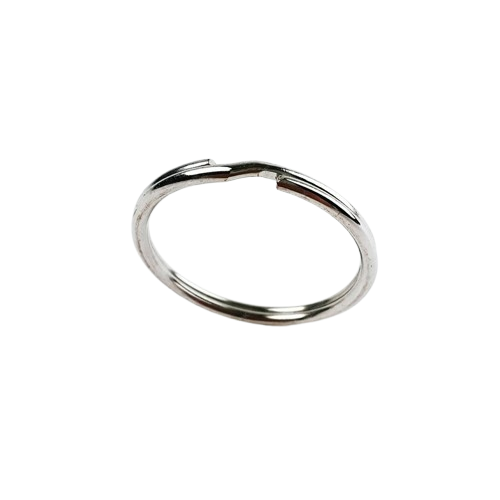
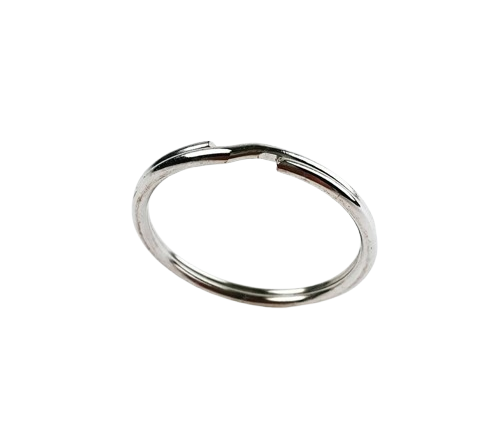
carousel images cont

Changed region(s): [[0.24, 0.2975, 0.75, 0.714]]

diff --git a/GemmaLaravel/database/seeders/ProductImageSeeder.php b/GemmaLaravel/database/seeders/ProductImageSeeder.php
@@ -16,81 +16,154 @@ class ProductImageSeeder extends Seeder
     {
         $productImages = [
             // Jednoduché
-            'Aurora Shine'    => 'prsten/jednoduche/01_zeny_zlato.png',
-            'Ruby Blossom'    => 'prsten/jednoduche/02_zeny_zlato.png',
-            'Sapphire Grace'  => 'prsten/jednoduche/03_zeny_zlato.png',
-            'Pearl Whisper'   => 'prsten/jednoduche/04_zeny_zlato.png',
-            'Golden Noble'    => 'prsten/jednoduche/101_muzi_zlato.png',
-            'Rubin Lord'      => 'prsten/jednoduche/102_muzi_zlato.png',
-            'Ocean Crown'     => 'prsten/jednoduche/103_muzi_zlato.png',
-            'Silver Titan'    => 'prsten/jednoduche/104_muzi_striebro.png',
-            'Crimson Edge'    => 'prsten/jednoduche/105_muzi_titanium.png',
-            'Midnight Star'   => 'prsten/jednoduche/106_muzi_titanium.png',
-            'Pearl Touch'     => 'prsten/jednoduche/1001_unisex_striebro.png',
-            'Ruby Zen'        => 'prsten/jednoduche/1002_unisex_striebro.png',
-            'Steel Moon'      => 'prsten/jednoduche/1003_unisex_titanium.png',
-            'Diamond Pulse'   => 'prsten/jednoduche/1004_unisex_titanium.png',
+            'Aurora Shine' => [
+                'prsten/jednoduche/01_zeny_zlato.png',
+                'prsten/jednoduche/01_zeny_zlato(2).png',
+                'prsten/jednoduche/01_zeny_zlato(3).png',
+            ],
+
+            'Ruby Blossom' => [
+                'prsten/jednoduche/02_zeny_zlato.png',
+                'prsten/jednoduche/02_zeny_zlato(2).png',
+                'prsten/jednoduche/02_zeny_zlato(3).png',
+            ],
+
+            'Sapphire Grace' => [
+                'prsten/jednoduche/03_zeny_zlato.png',
+                'prsten/jednoduche/03_zeny_zlato(2).png',
+                'prsten/jednoduche/03_zeny_zlato(3).png',
+            ],
+
+            'Pearl Whisper' => [
+                'prsten/jednoduche/04_zeny_zlato.png',
+                'prsten/jednoduche/04_zeny_zlato(2).png',
+                'prsten/jednoduche/04_zeny_zlato(3).png',
+            ],
+
+            'Golden Noble' => [
+                'prsten/jednoduche/101_muzi_zlato.png',
+                'prsten/jednoduche/101_muzi_zlato(2).png',
+                'prsten/jednoduche/101_muzi_zlato(3).png',
+            ],
+
+            'Rubin Lord' => [
+                'prsten/jednoduche/102_muzi_zlato.png',
+                'prsten/jednoduche/102_muzi_zlato(2).png',
+                'prsten/jednoduche/102_muzi_zlato(3).png',
+            ],
+
+            'Ocean Crown' => [
+                'prsten/jednoduche/103_muzi_zlato.png',
+                'prsten/jednoduche/103_muzi_zlato(2).png',
+                'prsten/jednoduche/103_muzi_zlato(3).png',
+            ],
+
+            'Silver Titan' => [
+                'prsten/jednoduche/104_muzi_striebro.png',
+                'prsten/jednoduche/104_muzi_striebro(2).png',
+                'prsten/jednoduche/104_muzi_striebro(3).png',
+            ],
+
+            'Crimson Edge' => [
+                'prsten/jednoduche/105_muzi_titanium.png',
+                'prsten/jednoduche/105_muzi_titanium(2).png',
+                'prsten/jednoduche/105_muzi_titanium(3).png',
+            ],
+
+            'Midnight Star' => [
+                'prsten/jednoduche/106_muzi_titanium.png',
+                'prsten/jednoduche/106_muzi_titanium(2).png',
+                'prsten/jednoduche/106_muzi_titanium(3).png',
+            ],
+
+            'Pearl Touch' => [
+                'prsten/jednoduche/1001_unisex_striebro.png',
+                'prsten/jednoduche/1001_unisex_striebro(2).png',
+                'prsten/jednoduche/1001_unisex_striebro(3).png',
+            ],
+
+            'Ruby Zen' => [
+                'prsten/jednoduche/1002_unisex_striebro.png',
+                'prsten/jednoduche/1002_unisex_striebro(2).png',
+                'prsten/jednoduche/1002_unisex_striebro(3).png',
+            ],
+
+            'Steel Moon' => [
+                'prsten/jednoduche/1003_unisex_titanium.png',
+                'prsten/jednoduche/1003_unisex_titanium(2).png',
+                'prsten/jednoduche/1003_unisex_titanium(3).png',
+            ],
+
+            'Diamond Pulse' => [
+                'prsten/jednoduche/1004_unisex_titanium.png',
+                'prsten/jednoduche/1004_unisex_titanium(2).png',
+                'prsten/jednoduche/1004_unisex_titanium(3).png',
+            ],
+
 
             // Vrstviteľné
-            'Golden Layers'   => 'prsten/vrstvitelne/01_zeny_zlato.png',
-            'Delicate Glow'   => 'prsten/vrstvitelne/02_zeny_zlato.png',
-            'Soft Glimmer'    => 'prsten/vrstvitelne/03_zeny_zlato.png',
-            'Silver Line'     => 'prsten/vrstvitelne/04_zeny_striebro.png',
-            'Moonlight Band'  => 'prsten/vrstvitelne/05_zeny_striebro.png',
-            'Frosted Touch'   => 'prsten/vrstvitelne/06_zeny_striebro.png',
-            'Titan Mist'      => 'prsten/vrstvitelne/07_zeny_titanium.png',
-            'Iron Layer'      => 'prsten/vrstvitelne/101_muzi_titanium.png',
-            'Steel Shadow'    => 'prsten/vrstvitelne/102_muzi_titanium.png',
-            'Golden Flow'     => 'prsten/vrstvitelne/1001_unisex_zlato.png',
-            'Layer Beam'      => 'prsten/vrstvitelne/1002_unisex_zlato.png',
-            'Silver Loop'     => 'prsten/vrstvitelne/1003_unisex_striebro.png',
+            'Golden Layers'   => ['prsten/vrstvitelne/01_zeny_zlato.png'],
+            'Delicate Glow'   => ['prsten/vrstvitelne/02_zeny_zlato.png'],
+            'Soft Glimmer'    => ['prsten/vrstvitelne/03_zeny_zlato.png'],
+            'Silver Line'     => ['prsten/vrstvitelne/04_zeny_striebro.png'],
+            'Moonlight Band'  => ['prsten/vrstvitelne/05_zeny_striebro.png'],
+            'Frosted Touch'   => ['prsten/vrstvitelne/06_zeny_striebro.png'],
+            'Titan Mist'      => ['prsten/vrstvitelne/07_zeny_titanium.png'],
+            'Iron Layer'      => ['prsten/vrstvitelne/101_muzi_titanium.png'],
+            'Steel Shadow'    => ['prsten/vrstvitelne/102_muzi_titanium.png'],
+            'Golden Flow'     => ['prsten/vrstvitelne/1001_unisex_zlato.png'],
+            'Layer Beam'      => ['prsten/vrstvitelne/1002_unisex_zlato.png'],
+            'Silver Loop'     => ['prsten/vrstvitelne/1003_unisex_striebro.png'],
 
             // Obrúčky
-            'Eternal Bond'    => 'prsten/obrucky/01_zeny_zlato.png',
-            'Golden Unity'    => 'prsten/obrucky/02_zeny_zlato.png',
-            'Silver Harmony'  => 'prsten/obrucky/03_zeny_striebro.png',
-            'Golden Legacy'   => 'prsten/obrucky/101_muzi_zlato.png',
-            'Noble Ring'      => 'prsten/obrucky/102_muzi_zlato.png',
-            'Regal Gold'      => 'prsten/obrucky/103_muzi_zlato.png',
-            'Pure Circle'     => 'prsten/obrucky/1001_unisex_zlato.png',
-            'Golden Harmony'  => 'prsten/obrucky/1002_unisex_zlato.png',
-            'Twilight Ring'   => 'prsten/obrucky/1003_unisex_zlato.png',
-            'Elegant Loop'    => 'prsten/obrucky/1004_unisex_zlato.png',
-            'Golden Touch'    => 'prsten/obrucky/1005_unisex_zlato.png',
-            'Luminous Ring'   => 'prsten/obrucky/1006_unisex_zlato.png',
-            'Silver Eternity' => 'prsten/obrucky/1007_unisex_striebro.png',
-            'Titanium Balance'=> 'prsten/obrucky/1008_unisex_titanium.png',
+            'Eternal Bond'    => ['prsten/obrucky/01_zeny_zlato.png'],
+            'Golden Unity'    => ['prsten/obrucky/02_zeny_zlato.png'],
+            'Silver Harmony'  => ['prsten/obrucky/03_zeny_striebro.png'],
+            'Golden Legacy'   => ['prsten/obrucky/101_muzi_zlato.png'],
+            'Noble Ring'      => ['prsten/obrucky/102_muzi_zlato.png'],
+            'Regal Gold'      => ['prsten/obrucky/103_muzi_zlato.png'],
+            'Pure Circle'     => ['prsten/obrucky/1001_unisex_zlato.png'],
+            'Golden Harmony'  => ['prsten/obrucky/1002_unisex_zlato.png'],
+            'Twilight Ring'   => ['prsten/obrucky/1003_unisex_zlato.png'],
+            'Elegant Loop'    => ['prsten/obrucky/1004_unisex_zlato.png'],
+            'Golden Touch'    => ['prsten/obrucky/1005_unisex_zlato.png'],
+            'Luminous Ring'   => ['prsten/obrucky/1006_unisex_zlato.png'],
+            'Silver Eternity' => ['prsten/obrucky/1007_unisex_striebro.png'],
+            'Titanium Balance'=> ['prsten/obrucky/1008_unisex_titanium.png'],
 
             // Prstene s kamienkom
-            'Golden Diamond Radiance' => 'prsten/s_kamienkom/01_zeny_zlato_diamant.png',
-            'Golden Diamond Glow'     => 'prsten/s_kamienkom/02_zeny_zlato_diamant.png',
-            'Golden Diamond Sparkle'  => 'prsten/s_kamienkom/03_zeny_zlato_diamant.png',
-            'Golden Diamond Shine'    => 'prsten/s_kamienkom/06_zeny_zlato_diamant.png',
-            'Ruby Golden Desire'      => 'prsten/s_kamienkom/05_zeny_zlato_rubin.png',
-            'Ruby Golden Charm'       => 'prsten/s_kamienkom/09_zeny_zlato_rubin.png',
-            'Sapphire Golden Charm'   => 'prsten/s_kamienkom/04_zeny_zlato_zafir.png',
-            'Sapphire Golden Desire'  => 'prsten/s_kamienkom/07_zeny_zlato_zafir.png',
-            'Silver Diamond Glow'     => 'prsten/s_kamienkom/08_zeny_striebro_diamant.png',
-            'Sapphire Golden Brilliance' => 'prsten/s_kamienkom/102_muzi_zlato_zafir.png',
-            'Sapphire Silver Legend'     => 'prsten/s_kamienkom/101_muzi_strieborny_zafir.png',
-            'Crimson Titanium Ruby'      => 'prsten/s_kamienkom/103_muzi_titanium_rubin.png',
-            'Sapphire Gold Light'        => 'prsten/s_kamienkom/1001_unisex_zlato_zafir.png',
-            'Sapphire Gold Charm'        => 'prsten/s_kamienkom/1002_unisex_zlato_zafir.png',
-            'Silver Diamond Essence'     => 'prsten/s_kamienkom/1004_unisex_striebro_diamant.png',
-            'Sapphire Silver Wonder'     => 'prsten/s_kamienkom/1005_unisex_striebro_zafir.png',
-            'Sapphire Silver Essence'    => 'prsten/s_kamienkom/1006_unisex_striebro_zafir.png',
-            'Titanium Pearl Serenity'    => 'prsten/s_kamienkom/1007_unisex_striebro_perla.png',
+            'Golden Diamond Radiance' => ['prsten/s_kamienkom/01_zeny_zlato_diamant.png'],
+            'Golden Diamond Glow' => ['prsten/s_kamienkom/02_zeny_zlato_diamant.png'],
+            'Golden Diamond Sparkle' => ['prsten/s_kamienkom/03_zeny_zlato_diamant.png'],
+            'Golden Diamond Shine' => ['prsten/s_kamienkom/06_zeny_zlato_diamant.png'],
+            'Ruby Golden Desire' => ['prsten/s_kamienkom/05_zeny_zlato_rubin.png'],
+            'Ruby Golden Charm' => ['prsten/s_kamienkom/09_zeny_zlato_rubin.png'],
+            'Sapphire Golden Charm' => ['prsten/s_kamienkom/04_zeny_zlato_zafir.png'],
+            'Sapphire Golden Desire' => ['prsten/s_kamienkom/07_zeny_zlato_zafir.png'],
+            'Silver Diamond Glow' => ['prsten/s_kamienkom/08_zeny_striebro_diamant.png'],
+            'Sapphire Golden Brilliance' => ['prsten/s_kamienkom/102_muzi_zlato_zafir.png'],
+            'Sapphire Silver Legend' => ['prsten/s_kamienkom/101_muzi_strieborny_zafir.png'],
+            'Crimson Titanium Ruby' => ['prsten/s_kamienkom/103_muzi_titanium_rubin.png'],
+            'Sapphire Gold Light' => ['prsten/s_kamienkom/1001_unisex_zlato_zafir.png'],
+            'Sapphire Gold Charm' => ['prsten/s_kamienkom/1002_unisex_zlato_zafir.png'],
+            'Silver Diamond Essence' => ['prsten/s_kamienkom/1004_unisex_striebro_diamant.png'],
+            'Sapphire Silver Wonder' => ['prsten/s_kamienkom/1005_unisex_striebro_zafir.png'],
+            'Sapphire Silver Essence' => ['prsten/s_kamienkom/1006_unisex_striebro_zafir.png'],
+            'Titanium Pearl Serenity' => ['prsten/s_kamienkom/1007_unisex_striebro_perla.png'],
 
         ];
 
-        foreach ($productImages as $productName => $imageFile) {
+        foreach ($productImages as $productName => $imageFiles) {
             $product = Product::where('name', $productName)->first();
 
             if ($product) {
-                ProductImage::create([
-                    'path' => $imageFile, // bez 'public/' predpony
-                    'id_product' => $product->id,
-                ]);
+                // Ak produkt existuje, pridáme obrázky
+                foreach ($imageFiles as $imageFile) {
+                    ProductImage::create([
+                        'path' => $imageFile, // Pridáme cestu k obrázku
+                        'id_product' => $product->id, // ID produktu
+                    ]);
+                }
             } else {
                 echo "Produkt '$productName' sa nenašiel v databáze.\n";
             }

diff --git a/GemmaLaravel/resources/views/main_pages/one_product_page.blade.php b/GemmaLaravel/resources/views/main_pages/one_product_page.blade.php
@@ -24,7 +24,7 @@
             <div class="col-md-5">
                 <div id="productCarousel" class="carousel slide" data-bs-ride="carousel">
                     <div class="carousel-inner">
-                        @foreach($product->image as $index => $image)
+                        @foreach($images as $index => $image)
                             <div class="carousel-item {{ $index == 0 ? 'active' : '' }}">
                                 <div class="product-container-single">
                                     <a href="one_product.php" class="text-decoration-none text-reset d-block">
@@ -35,16 +35,15 @@
                         @endforeach
                     </div>
                     <button class="carousel-control-prev" type="button" data-bs-target="#productCarousel" data-bs-slide="prev">
-                        <span class="carousel-control-prev-icon"></span>
+                        <span class="carousel-control-prev-icon" aria-hidden="true"></span>
+                        <span class="visually-hidden">Predchádzajúci</span>
                     </button>
                     <button class="carousel-control-next" type="button" data-bs-target="#productCarousel" data-bs-slide="next">
-                        <span class="carousel-control-next-icon"></span>
+                        <span class="carousel-control-next-icon" aria-hidden="true"></span>
+                        <span class="visually-hidden">Ďalší</span>
                     </button>
                 </div>
-                <!--<div class="favorite-container text-center mt-3">
-                    <input type="checkbox" id="single-prod1" class="favorite-checkbox d-none">
-                    <label for="single-prod{{ $product->id }}" class="favorite-icon material-icons">favorite</label>
-                </div>-->
+
             </div>
 
             <div class="col-md-7 mb-5">
@@ -77,7 +76,6 @@
                 </div>
             </div>
 
-
         </div>
     </div>
 
@@ -101,7 +99,7 @@
                             @endif
                             <p class="product-name">{{ $product->name }}</p>
                         </a>
-                        <h5>{{ $product->price }}€</h5>
+
                     </div>
                     <!--
                     <input type="checkbox" id="favorite-main{{ $product->id }}" class="favorite-checkbox">
@@ -126,7 +124,7 @@
     @include('components.footer')
 </footer>
 
-<script src="../js/bootstrap.bundle.min.js"></script>
+<script src="https://cdn.jsdelivr.net/npm/bootstrap@5.3.0-alpha1/dist/js/bootstrap.bundle.min.js"></script>
 </body>
 </html>
 

diff --git a/GemmaLaravel/database/migrations/2025_04_22_170358_create_product_images_table.php b/GemmaLaravel/database/migrations/2025_04_22_170358_create_product_images_table.php
@@ -11,7 +11,7 @@ return new class extends Migration
      */
     public function up(): void
     {
-        Schema::create('images', function (Blueprint $table) {
+        Schema::create('product_images', function (Blueprint $table) {
             $table->id();
             $table->string('path');
             $table->foreignId('id_product')->constrained('products')->onDelete('cascade');

diff --git a/GemmaLaravel/app/Http/Controllers/ProductController.php b/GemmaLaravel/app/Http/Controllers/ProductController.php
@@ -72,6 +72,7 @@ class ProductController extends Controller
         $images = $product->image;
         $moreProducts = Product::inRandomOrder()->limit(8)->get();
         $moreImages = $moreProducts->pluck('image');
+
         return view('main_pages.one_product_page', compact('product', 'images', 'moreProducts', 'moreImages'));
     }
 

diff --git a/GemmaLaravel/app/Models/ProductImage.php b/GemmaLaravel/app/Models/ProductImage.php
@@ -6,7 +6,7 @@ use Illuminate\Database\Eloquent\Model;
 
 class ProductImage extends Model
 {
-    protected $table = 'images';
+    protected $table = 'product_images';
 
     protected $fillable = [
         'path',
